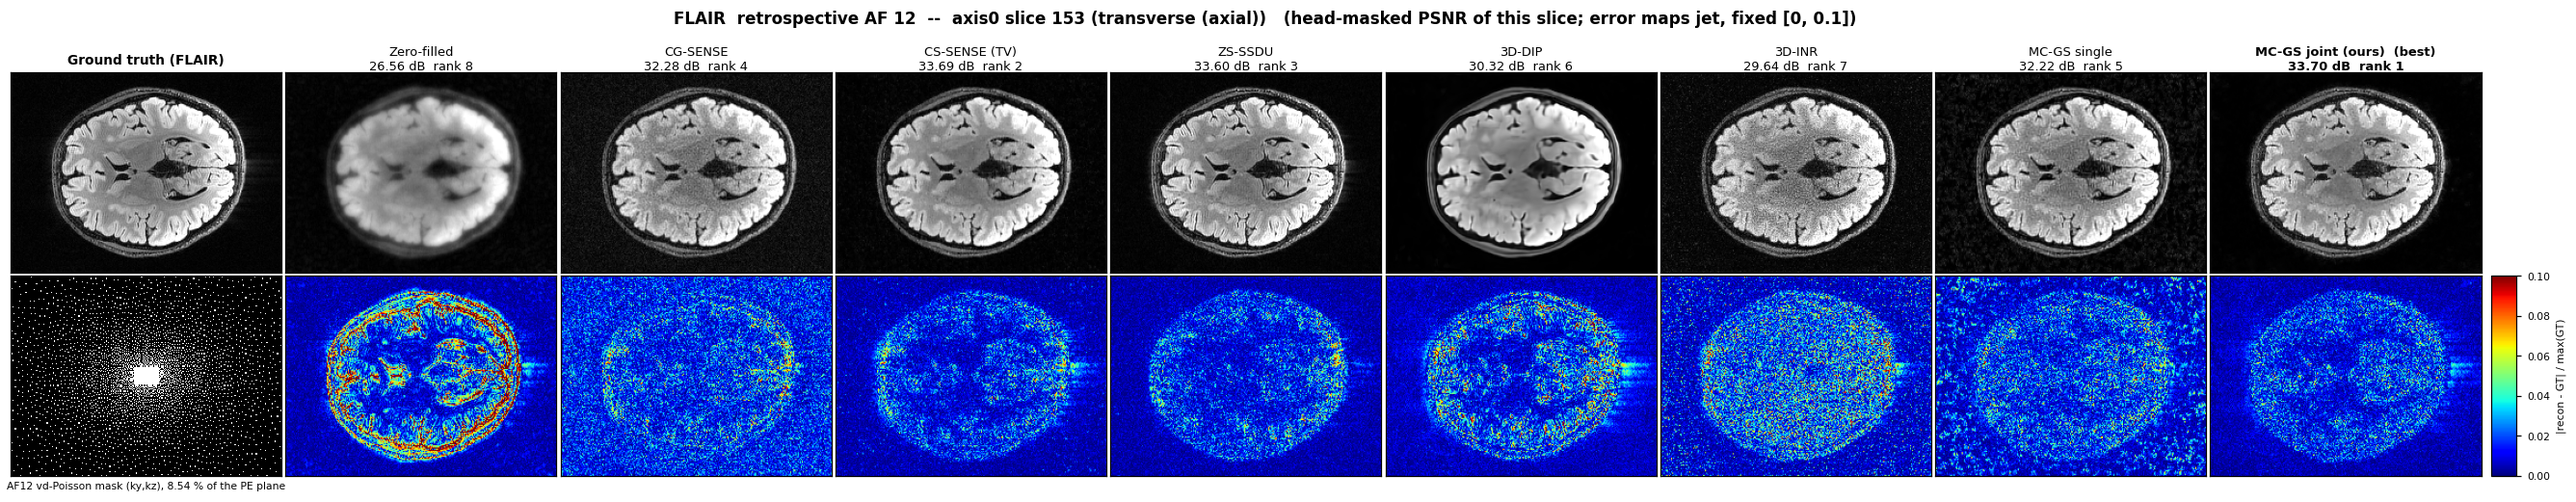
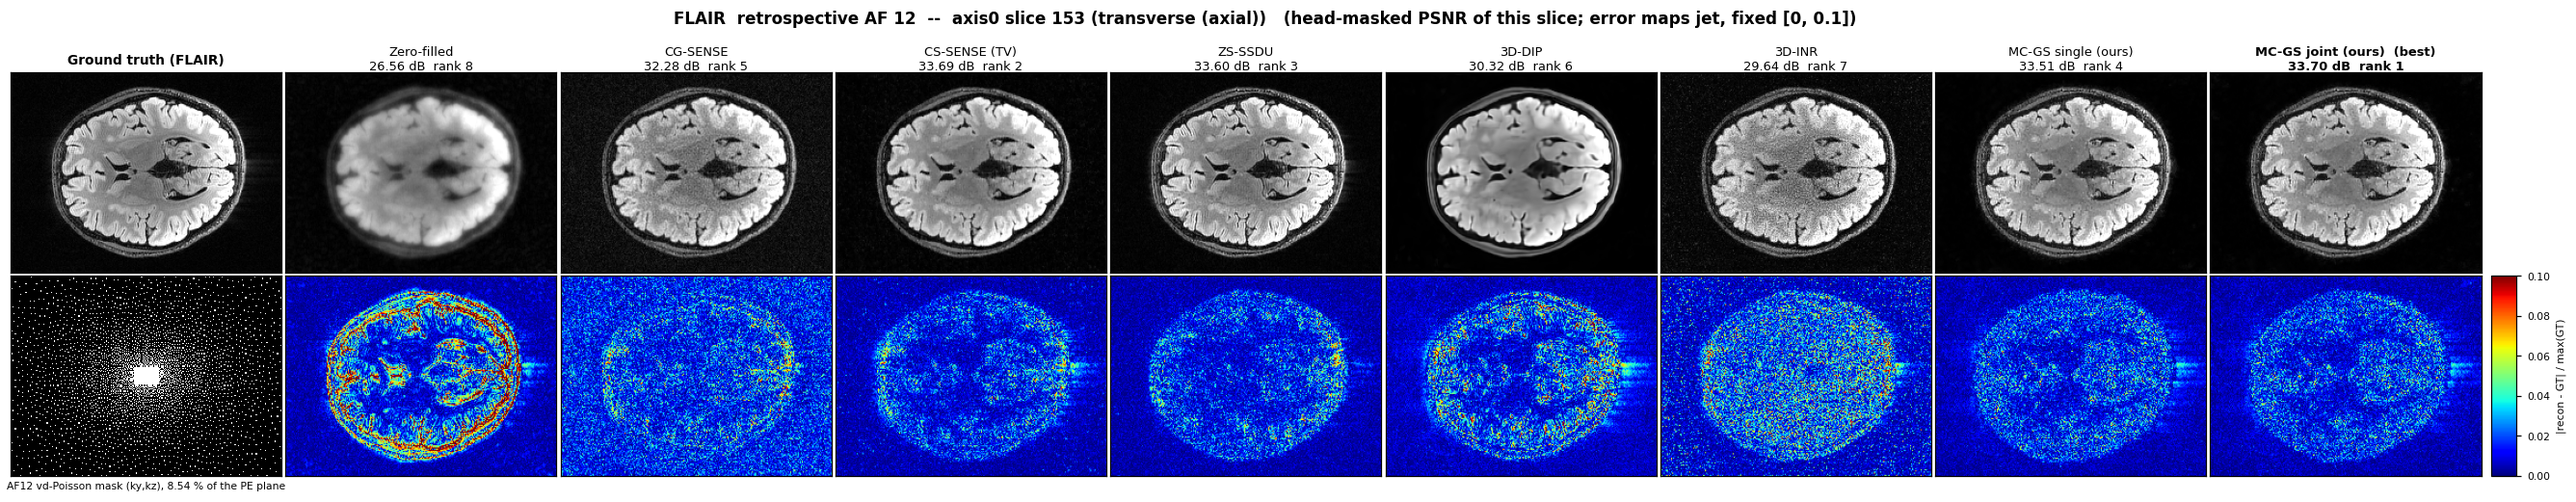
t1flair: single-contrast v2 arms on both topics (tables, READMEs); compact figures show only the v2 pair

Changed region(s): [[0.7452, 0.5528, 0.8694, 0.952], [0.7763, 0.0921, 0.8384, 0.1536], [0.8073, 0.3071, 0.8384, 0.3378]]

diff --git a/t1flair_af12_v3_jiangyizhou/scripts/summarize.py b/t1flair_af12_v3_jiangyizhou/scripts/summarize.py
@@ -18,10 +18,10 @@ ARC = Path("/data0/congcong/code/GS/Paired_ARC_GS_general_framework/results_arc"
 
 COLS = ["psnr", "ssim", "nmse", "hfen", "head_psnr", "head_ssim", "head_hfen",
         "sharp", "grain", "grain_ratio"]
-ORDER = ["zf", "cgsense", "cssense", "zsssdu", "dip", "inr", "gs_single", "gs_joint", "gs_joint_v2"]
+ORDER = ["zf", "cgsense", "cssense", "zsssdu", "dip", "inr", "gs_single", "gs_joint", "gs_single_v2", "gs_joint_v2"]
 LABEL = {"zf": "ZF", "cgsense": "CG-SENSE", "cssense": "CS-SENSE", "zsssdu": "ZS-SSDU",
          "dip": "3D-DIP", "inr": "3D-INR", "gs_single": "MC-GS single", "gs_joint": "MC-GS joint",
-         "gs_joint_v2": "MC-GS joint v2"}
+         "gs_single_v2": "MC-GS single v2", "gs_joint_v2": "MC-GS joint v2"}
 
 
 def main():
@@ -49,6 +49,13 @@ def main():
         for ch, name in (("plain", d.get("plain_name", "T1")), ("contrast", d.get("contrast_name", "FLAIR"))):
             rows.append({"contrast": name, "method": "gs_joint_v2",
                          **{k: d[ch].get(k) for k in COLS}, "seconds": d.get("elapsed_s")})
+    # single-contrast arms of the v2 recipe (ablation)
+    for exp, c in (("ar9_single_T1_v2_jyz", "T1"), ("ar9_single_FLAIR_v2_jyz", "FLAIR")):
+        sp = ARC / f"{exp}_score.json"
+        if sp.exists():
+            d = json.load(open(sp))
+            rows.append({"contrast": c, "method": "gs_single_v2",
+                         **{k: d["plain"].get(k) for k in COLS}, "seconds": d.get("elapsed_s")})
     for c in ("T1", "FLAIR"):
         sp = ARC / f"t1flair_v3_af12_single_{c}_score.json"
         if sp.exists():

diff --git a/t1flair_af12_retro/scripts/summarize.py b/t1flair_af12_retro/scripts/summarize.py
@@ -18,10 +18,10 @@ ARC = Path("/data0/congcong/code/GS/Paired_ARC_GS_general_framework/results_arc"
 
 COLS = ["psnr", "ssim", "nmse", "hfen", "head_psnr", "head_ssim", "head_hfen",
         "sharp", "grain", "grain_ratio"]
-ORDER = ["zf", "cgsense", "cssense", "zsssdu", "dip", "inr", "gs_single", "gs_joint", "gs_joint_v2"]
+ORDER = ["zf", "cgsense", "cssense", "zsssdu", "dip", "inr", "gs_single", "gs_joint", "gs_single_v2", "gs_joint_v2"]
 LABEL = {"zf": "ZF", "cgsense": "CG-SENSE", "cssense": "CS-SENSE", "zsssdu": "ZS-SSDU",
          "dip": "3D-DIP", "inr": "3D-INR", "gs_single": "MC-GS single", "gs_joint": "MC-GS joint",
-         "gs_joint_v2": "MC-GS joint v2"}
+         "gs_single_v2": "MC-GS single v2", "gs_joint_v2": "MC-GS joint v2"}
 
 
 def main():
@@ -49,6 +49,13 @@ def main():
         for ch, name in (("plain", d.get("plain_name", "T1")), ("contrast", d.get("contrast_name", "FLAIR"))):
             rows.append({"contrast": name, "method": "gs_joint_v2",
                          **{k: d[ch].get(k) for k in COLS}, "seconds": d.get("elapsed_s")})
+    # single-contrast arms of the v2 recipe (ablation)
+    for exp, c in (("ar6_single_T1_v2", "T1"), ("ar9_single_FLAIR_v2_hyw", "FLAIR")):
+        sp = ARC / f"{exp}_score.json"
+        if sp.exists():
+            d = json.load(open(sp))
+            rows.append({"contrast": c, "method": "gs_single_v2",
+                         **{k: d["plain"].get(k) for k in COLS}, "seconds": d.get("elapsed_s")})
     for c in ("T1", "FLAIR"):
         sp = ARC / f"t1flair_af12_single_{c}_score.json"
         if sp.exists():

diff --git a/t1flair_af12_retro/scripts/fig_planes_v2.py b/t1flair_af12_retro/scripts/fig_planes_v2.py
@@ -20,7 +20,7 @@ ap.add_argument("--prefix", required=True, help="figure name prefix and figs sub
 ap.add_argument("--slices", default=None, help="axis0,axis1,axis2 indices; default = per-plane best from logs/best_slice_v2.json")
 ap.add_argument("--ours", default="gs_joint_v2")
 ap.add_argument("--tag", default="best3planes")
-ap.add_argument("--exclude", default="gs_joint", help="comma list of arms to leave out; the superseded joint arm by default (v2 is the proposed method)")
+ap.add_argument("--exclude", default="gs_joint,gs_single", help="comma list of arms to leave out; the superseded joint and single arms by default (the v2 pair is the proposed method and its ablation)")
 args = ap.parse_args()
 
 import matplotlib
@@ -35,7 +35,7 @@ ANAT = {0: "transverse", 1: "coronal", 2: "sagittal"}
 ORDER = ["zf", "cgsense", "cssense", "zsssdu", "dip", "inr", "gs_single", "gs_joint", "gs_single_v2", "gs_joint_v2"]
 LABEL = {"zf": "Zero-filled", "cgsense": "CG-SENSE", "cssense": "CS-SENSE (TV)", "zsssdu": "ZS-SSDU",
          "dip": "3D-DIP", "inr": "3D-INR", "gs_single": "MC-GS single", "gs_joint": "MC-GS joint",
-         "gs_single_v2": "MC-GS single v2", "gs_joint_v2": "MC-GS joint (ours)"}
+         "gs_single_v2": "MC-GS single (ours)", "gs_joint_v2": "MC-GS joint (ours)"}
 
 
 def load(m, c):

diff --git a/t1flair_af12_v3_jiangyizhou/scripts/fig_planes_v2.py b/t1flair_af12_v3_jiangyizhou/scripts/fig_planes_v2.py
@@ -20,7 +20,7 @@ ap.add_argument("--prefix", required=True, help="figure name prefix and figs sub
 ap.add_argument("--slices", default=None, help="axis0,axis1,axis2 indices; default = per-plane best from logs/best_slice_v2.json")
 ap.add_argument("--ours", default="gs_joint_v2")
 ap.add_argument("--tag", default="best3planes")
-ap.add_argument("--exclude", default="gs_joint", help="comma list of arms to leave out; the superseded joint arm by default (v2 is the proposed method)")
+ap.add_argument("--exclude", default="gs_joint,gs_single", help="comma list of arms to leave out; the superseded joint and single arms by default (the v2 pair is the proposed method and its ablation)")
 args = ap.parse_args()
 
 import matplotlib
@@ -35,7 +35,7 @@ ANAT = {0: "transverse", 1: "coronal", 2: "sagittal"}
 ORDER = ["zf", "cgsense", "cssense", "zsssdu", "dip", "inr", "gs_single", "gs_joint", "gs_single_v2", "gs_joint_v2"]
 LABEL = {"zf": "Zero-filled", "cgsense": "CG-SENSE", "cssense": "CS-SENSE (TV)", "zsssdu": "ZS-SSDU",
          "dip": "3D-DIP", "inr": "3D-INR", "gs_single": "MC-GS single", "gs_joint": "MC-GS joint",
-         "gs_single_v2": "MC-GS single v2", "gs_joint_v2": "MC-GS joint (ours)"}
+         "gs_single_v2": "MC-GS single (ours)", "gs_joint_v2": "MC-GS joint (ours)"}
 
 
 def load(m, c):

diff --git a/t1flair_af12_retro/scripts/fig_slice.py b/t1flair_af12_retro/scripts/fig_slice.py
@@ -12,7 +12,7 @@ ap = argparse.ArgumentParser()
 ap.add_argument("--contrast", required=True, choices=["T1", "FLAIR"])
 ap.add_argument("--axis", type=int, required=True, choices=[0, 1, 2])
 ap.add_argument("--index", type=int, required=True)
-ap.add_argument("--methods", default="zf,cgsense,cssense,zsssdu,dip,inr,gs_single,gs_joint_v2")   # the superseded joint arm is left out: v2 is the proposed method
+ap.add_argument("--methods", default="zf,cgsense,cssense,zsssdu,dip,inr,gs_single_v2,gs_joint_v2")   # superseded joint/single arms left out: the v2 pair is the proposed method and its ablation
 ap.add_argument("--tag", default="best")
 args = ap.parse_args()
 
@@ -27,7 +27,7 @@ ANAT = {0: "transverse (axial)", 1: "coronal", 2: "sagittal"}   # adjudicated 20
 LABEL = {"zf": "Zero-filled", "cgsense": "CG-SENSE", "cssense": "CS-SENSE (TV)",
          "zsssdu": "ZS-SSDU", "dip": "3D-DIP", "inr": "3D-INR",
          "gs_single": "MC-GS single", "gs_joint": "MC-GS joint",
-         "gs_single_v2": "MC-GS single v2", "gs_joint_v2": "MC-GS joint (ours)"}
+         "gs_single_v2": "MC-GS single (ours)", "gs_joint_v2": "MC-GS joint (ours)"}
 
 
 def load(m, c):

diff --git a/t1flair_af12_v3_jiangyizhou/scripts/fig_slice.py b/t1flair_af12_v3_jiangyizhou/scripts/fig_slice.py
@@ -12,7 +12,7 @@ ap = argparse.ArgumentParser()
 ap.add_argument("--contrast", required=True, choices=["T1", "FLAIR"])
 ap.add_argument("--axis", type=int, required=True, choices=[0, 1, 2])
 ap.add_argument("--index", type=int, required=True)
-ap.add_argument("--methods", default="zf,cgsense,cssense,zsssdu,dip,inr,gs_single,gs_joint_v2")   # the superseded joint arm is left out: v2 is the proposed method
+ap.add_argument("--methods", default="zf,cgsense,cssense,zsssdu,dip,inr,gs_single_v2,gs_joint_v2")   # superseded joint/single arms left out: the v2 pair is the proposed method and its ablation
 ap.add_argument("--tag", default="best")
 args = ap.parse_args()
 
@@ -27,7 +27,7 @@ ANAT = {0: "transverse (axial)", 1: "coronal", 2: "sagittal"}   # adjudicated 20
 LABEL = {"zf": "Zero-filled", "cgsense": "CG-SENSE", "cssense": "CS-SENSE (TV)",
          "zsssdu": "ZS-SSDU", "dip": "3D-DIP", "inr": "3D-INR",
          "gs_single": "MC-GS single", "gs_joint": "MC-GS joint",
-         "gs_single_v2": "MC-GS single v2", "gs_joint_v2": "MC-GS joint (ours)"}
+         "gs_single_v2": "MC-GS single (ours)", "gs_joint_v2": "MC-GS joint (ours)"}
 
 
 def load(m, c):

diff --git a/t1flair_af12_v3_jiangyizhou/scripts/extract_gs_volumes.py b/t1flair_af12_v3_jiangyizhou/scripts/extract_gs_volumes.py
@@ -21,7 +21,10 @@ JOBS = [("t1flair_v3_af12_joint", "gs_joint", [("recT1", "T1"), ("recFL", "FLAIR
         ("t1flair_v3_af12_single_T1", "gs_single", [("recT1", "T1")], [], []),
         ("t1flair_v3_af12_single_FLAIR", "gs_single", [("recT1", "FLAIR")], [], []),
         # v2 = the autoresearch recipe found on the T1+T2 pair, applied here UNCHANGED as a transfer check
-        ("ar5_tf_jyz_t1flair", "gs_joint_v2", [("recT1", "T1"), ("recFL", "FLAIR")], [], [])]
+        ("ar5_tf_jyz_t1flair", "gs_joint_v2", [("recT1", "T1"), ("recFL", "FLAIR")], [], []),
+        # single-contrast arms of the v2 recipe (ablation; the hyw T1 one is shared with the T1+T2 topic)
+        ("ar9_single_T1_v2_jyz", "gs_single_v2", [("recT1", "T1")], [], []),
+        ("ar9_single_FLAIR_v2_jyz", "gs_single_v2", [("recT1", "FLAIR")], [], [])]
 
 
 def main():

diff --git a/t1flair_af12_retro/scripts/extract_gs_volumes.py b/t1flair_af12_retro/scripts/extract_gs_volumes.py
@@ -21,7 +21,10 @@ JOBS = [("t1flair_af12_joint", "gs_joint", [("recT1", "T1"), ("recFL", "FLAIR")]
         ("t1flair_af12_single_T1", "gs_single", [("recT1", "T1")], [], []),
         ("t1flair_af12_single_FLAIR", "gs_single", [("recT1", "FLAIR")], [], []),
         # v2 = the autoresearch recipe found on the T1+T2 pair, applied here UNCHANGED as a transfer check
-        ("ar5_tf_hyw_t1flair", "gs_joint_v2", [("recT1", "T1"), ("recFL", "FLAIR")], [], [])]
+        ("ar5_tf_hyw_t1flair", "gs_joint_v2", [("recT1", "T1"), ("recFL", "FLAIR")], [], []),
+        # single-contrast arms of the v2 recipe (ablation; the hyw T1 one is shared with the T1+T2 topic)
+        ("ar6_single_T1_v2", "gs_single_v2", [("recT1", "T1")], [], []),
+        ("ar9_single_FLAIR_v2_hyw", "gs_single_v2", [("recT1", "FLAIR")], [], [])]
 
 
 def main():

diff --git a/t1flair_af12_v3_jiangyizhou/README.md b/t1flair_af12_v3_jiangyizhou/README.md
@@ -29,6 +29,7 @@ whole-volume SSIM misleads on this data).
 | CS-SENSE | **39.395** | 0.9523 | **35.762** | **0.9429** | 2 min |
 | ZS-SSDU | 39.357 | **0.9577** | 35.724 | 0.9422 | 22 min |
 | MC-GS joint v2 (transfer check, see below) | 38.949 | 0.9194 | 35.520 | 0.9321 | 42 min |
+| MC-GS single v2 (ablation) | 38.601 | 0.9205 | 35.209 | 0.9260 | 40 min |
 | MC-GS joint | 36.349 | 0.8703 | 34.160 | 0.9169 | 29 min |
 | MC-GS single | 35.529 | 0.8297 | 33.799 | 0.9032 | 29 min |
 | CG-SENSE | 35.082 | 0.7562 | 33.514 | 0.8981 | 2 min |
@@ -40,7 +41,8 @@ whole-volume SSIM misleads on this data).
 
 | method | PSNR | SSIM | head PSNR | head SSIM | wall |
 |---|---|---|---|---|---|
-| CS-SENSE | 38.773 | 0.9416 | **35.084** | 0.9307 | 2 min |
+| MC-GS single v2 (ablation) | 38.503 | 0.8966 | **35.101** | 0.9216 | 40 min |
+| CS-SENSE | 38.773 | 0.9416 | 35.084 | 0.9307 | 2 min |
 | MC-GS joint v2 (transfer check, see below) | 38.584 | 0.9082 | 35.056 | 0.9238 | 42 min |
 | ZS-SSDU | **38.807** | **0.9563** | 35.034 | **0.9353** | 36 min |
 | CG-SENSE | 35.704 | 0.7782 | 33.957 | 0.9032 | 2 min |
@@ -118,6 +120,11 @@ Gaussians it can pin down is roughly the same, and an absolute count near 1.2M i
 transferable setting. The honest claim for the recipe is therefore: first on the tuning
 subject in both pairings, second on this held-out subject, +1.4 / +1.7 dB over the original
 joint arm everywhere.
+
+Single-contrast arms of the same recipe (`ar9_single_{T1,FLAIR}_v2_jyz`): T1 35.209 / FLAIR 35.101
+head PSNR. On T1 the joint model is +0.31 dB above its ablation; on FLAIR the single arm is
++0.045 dB above the joint one and edges CS-SENSE by 0.017 dB — the same order as the run-to-run
+floor, so it is listed, not claimed. The compact figures show only the v2 pair.
 
 ## Regenerating
 

diff --git a/t1flair_af12_retro/README.md b/t1flair_af12_retro/README.md
@@ -40,6 +40,7 @@ this pair than on T1+T2.
 | method | PSNR | SSIM | head PSNR | head SSIM |
 |---|---|---|---|---|
 | **MC-GS joint v2** (transfer check, see below) | 37.844 | 0.8835 | **33.492** | 0.9023 |
+| MC-GS single v2 (ablation) | 37.639 | 0.8708 | 33.367 | 0.8975 |
 | ZS-SSDU | 38.012 | 0.9525 | 33.269 | **0.9235** |
 | CS-SENSE | 37.897 | 0.9346 | 33.252 | 0.9127 |
 | CG-SENSE | 34.616 | 0.7328 | 32.192 | 0.8834 |
@@ -92,6 +93,12 @@ The transfer holds on head PSNR (+0.34 dB on T1, +0.22 dB on FLAIR over the best
 original joint arm) and on head HFEN, and does not hold on head SSIM, where ZS-SSDU keeps a
 0.02 lead on FLAIR. Figures regenerated with the tenth column
 (`figures/t1flair_af12_{T1,FLAIR}_plane{0,1,2}.png`).
+
+Single-contrast arms of the same recipe (`ar6_single_T1_v2`, shared with the T1+T2 topic, and
+`ar9_single_FLAIR_v2_hyw`): T1 34.680 / FLAIR 33.367 head PSNR. The joint model is +0.27 / +0.13 dB
+above its own single-contrast ablation on this pairing, i.e. here the shared geometry helps both
+channels. The compact figures (`fig_slice.py`, `fig_planes_v2.py`) show only the v2 pair,
+labelled "MC-GS joint (ours)" and "MC-GS single (ours)"; the superseded arms stay in the table.
 
 ## Regenerating
 

diff --git a/autoresearch_t1t2.md b/autoresearch_t1t2.md
@@ -333,3 +333,9 @@ leads: at 6.6 % sampling the learned denoiser's prior is worth more than what th
 representation recovers from the acquired points. The AF12 recipe was not re-tuned for AF16 here
 (the parallel session runs its own loop on jyz AF16, branch `autoresearch-jyz-af16`); the honest
 scope of the claim stays AF12 on the tuning subject.
+
+**Single-contrast v2 arms on the T1+FLAIR topics (12:55–13:40, `ar9_*`).** hyw FLAIR 33.367 (joint v2
+33.492, +0.13 for joint); jyz T1 35.209 (joint 35.520, +0.31) and FLAIR 35.101 (joint 35.056, −0.05;
+the single FLAIR arm edges CS-SENSE 35.084 by 0.017 dB, repeat-floor order, listed not claimed).
+Together with the T1+T2 pair (+0.30 / −0.25): the joint model is ahead of its ablation on five of six
+channels, always on T1, and the shared geometry costs at most 0.25 dB on the easier contrast.
